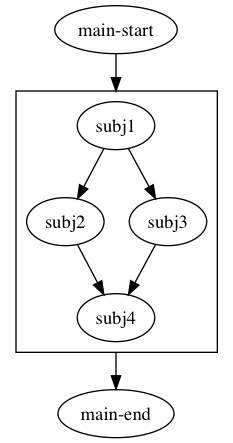
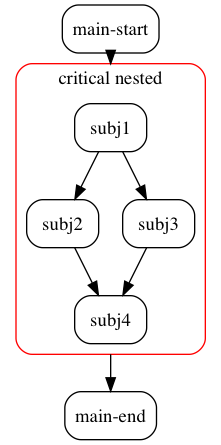
update readme for #4

Changed region(s): [[0.0543, 0.0, 0.9502, 0.8804], [0.2443, 0.8804, 0.7602, 0.9977]]

diff --git a/README.md b/README.md
@@ -105,9 +105,9 @@ sa = Scheduler(a1, a2, a3)
 sa.run()
 ```
 
-    -> in_out(0.25)
     -> in_out(0.1)
     -> in_out(0.2)
+    -> in_out(0.25)
     <- in_out(0.1)
     <- in_out(0.2)
     <- in_out(0.25)
@@ -163,8 +163,8 @@ sb = Scheduler(b1, b2, b3)
 sb.run()
 ```
 
-    -> in_out(0.1)
     -> in_out(0.25)
+    -> in_out(0.1)
     <- in_out(0.1)
     -> in_out(0.2)
     <- in_out(0.25)
@@ -246,9 +246,9 @@ To see an overview of a scheduler, just use the `list()` method that will give y
 sb.list()
 ```
 
-    1   ☉ ☓   <Job `b1`> [[ -> 100.0]] 
-    2   ☉ ☓   <Job `b2`> [[ -> 200.0]] requires={1}
-    3   ☉ ☓   <Job `Job[in_out (...)]`> [[ -> 250.0]] 
+    1   ☉ ☓   <Job `Job[in_out (...)]`> [[ -> 250.0]] 
+    2   ☉ ☓   <Job `b1`> [[ -> 100.0]] 
+    3   ☉ ☓   <Job `b2`> [[ -> 200.0]] requires={2}
 
 
 Here is a complete list of the symbols used, with their meaning 
@@ -333,8 +333,8 @@ sc = Scheduler(c1, c2, c3, c4)
 sc.run()
 ```
 
-    BUS: -> in_out(0.4)
     BUS: -> in_out(0.2)
+    BUS: -> in_out(0.4)
     BUS: <- in_out(0.2)
     BUS: -> in_out(0.3)
     BUS: <- in_out(0.4)
@@ -355,10 +355,10 @@ Note that `run()` always terminates as soon as all the non-`forever` jobs are co
 sc.list()
 ```
 
-    1   ☉ ↺ ∞ <Job `monitor`> [not done] 
-    2   ☉ ☓   <Job `c2`> [[ -> 4.0]] 
-    3   ☉ ☓   <Job `c1`> [[ -> 2.0]] 
-    4   ☉ ☓   <Job `c3`> [[ -> 3.0]] requires={3}
+    1   ☉ ☓   <Job `c1`> [[ -> 2.0]] 
+    2   ☉ ↺ ∞ <Job `monitor`> [not done] 
+    3   ☉ ☓   <Job `c2`> [[ -> 4.0]] 
+    4   ☉ ☓   <Job `c3`> [[ -> 3.0]] requires={1}
 
 
 ### Example D : specifying a global timeout
@@ -379,10 +379,10 @@ sd = Scheduler(j, timeout=0.25)
 sd.run()
 ```
 
-    16:24:40: forever 0
-    16:24:40: forever 1
-    16:24:40: forever 2
-    16:24:40.854 SCHEDULER(None): PureScheduler.co_run: TIMEOUT occurred
+    11:28:32: forever 0
+    11:28:32: forever 1
+    11:28:32: forever 2
+    11:28:32.345 SCHEDULER(None): PureScheduler.co_run: TIMEOUT occurred
 
 
 
@@ -467,7 +467,7 @@ sf.list()
 
     -> in_out(0.2)
     <- in_out(0.2)
-    16:24:42.15 SCHEDULER(None): Emergency exit upon exception in critical job
+    11:28:33.510 SCHEDULER(None): Emergency exit upon exception in critical job
     run: False
     1   ☉ ☓   <Job `Job[in_out (...)]`> [[ -> 200.0]] 
     2 ⚠ ★ ☓   <Job `boom`> !! CRIT. EXC. => Exception:boom after 0.2s!! requires={1}
@@ -517,7 +517,7 @@ print("total duration = {}s".format(end-beg))
     8-th job
     1-th job
     4-th job
-    total duration = 1.001410961151123s
+    total duration = 1.0073628425598145s
 
 
 ## Customizing jobs
@@ -568,8 +568,8 @@ Here's a simple example:
 # and a simple scheduler with an initialization and 2 concurrent tasks
 s = Scheduler()
 j1 = Job(aprint("j1"), label="init", scheduler=s)
-j2 = Job(aprint("j2"), label="part1", scheduler=s, required=j1)
-j3 = Job(aprint("j3"), label="part2", scheduler=s, required=j1)
+j2 = Job(aprint("j2"), label="critical job", critical=True, scheduler=s, required=j1)
+j3 = Job(aprint("j3"), label="forever job", forever=True, scheduler=s, required=j1)
 s.graph()
 ```
 
@@ -646,7 +646,7 @@ Let us consider the following example:
 # we start with the creation of an internal scheduler
 # that has a simple diamond structure
 
-sub_sched = Scheduler()
+sub_sched = Scheduler(label="critical nested", critical=True)
 subj1 = Job(aprint("subj1"), label='subj1', scheduler=sub_sched)
 subj2 = Job(aprint("subj2"), label='subj2', required=subj1, scheduler=sub_sched)
 subj3 = Job(aprint("subj3"), label='subj3', required=subj1, scheduler=sub_sched)
@@ -658,7 +658,6 @@ We can now create a main scheduler, in which **one of the jobs is this low-level
 
 ```python
 # the main scheduler
-sub_sched.label = "nested"
 main_sched = Scheduler(
     Sequence(
         Job(aprint("main-start"), label="main-start"),
@@ -679,12 +678,12 @@ main_sched.list()
 ```
 
     1     ⚐   <Job `main-start`> [not done] 
-    2     ⚐   > <Scheduler `nested`> requires={1} -> entries={3}
+    2 ⚠   ⚐   > <Scheduler `critical nested`> requires={1} -> entries={3}
     3     ⚐   <Job `subj1`> [not done] 
     4     ⚐   <Job `subj2`> [not done] requires={3}
     5     ⚐   <Job `subj3`> [not done] requires={3}
-    6     ⚐   <Job `subj4`> [not done] requires={5, 4}
-    2   end   < <Scheduler `nested`> exits={6}
+    6     ⚐   <Job `subj4`> [not done] requires={4, 5}
+    2   end   < <Scheduler `critical nested`> exits={6}
     7     ⚐   <Job `main-end`> [not done] requires={2}
 
 
@@ -733,8 +732,8 @@ main_sched.run()
 
     main-start
     subj1
-    subj3
     subj2
+    subj3
     subj4
     main-end
 
